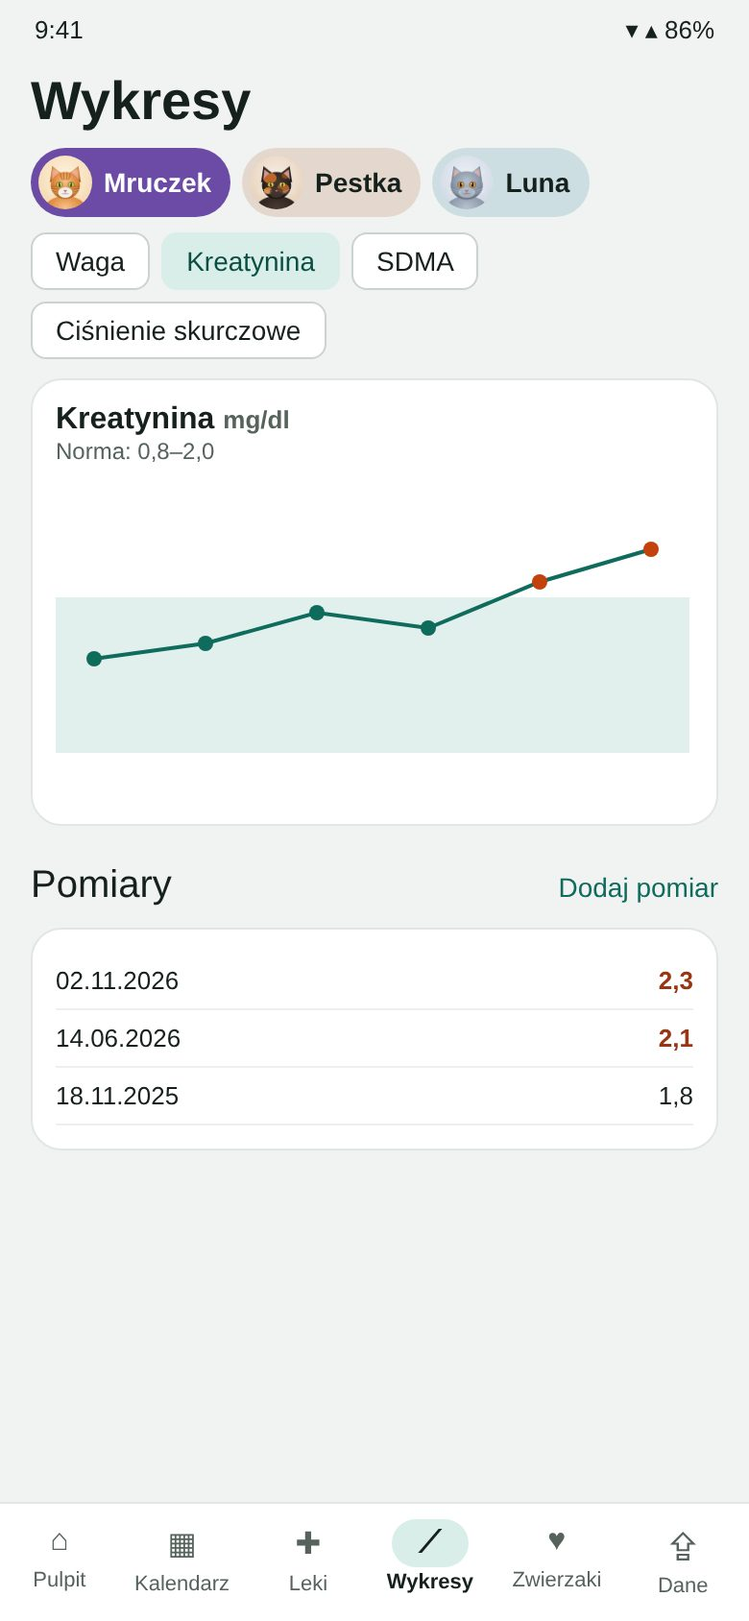
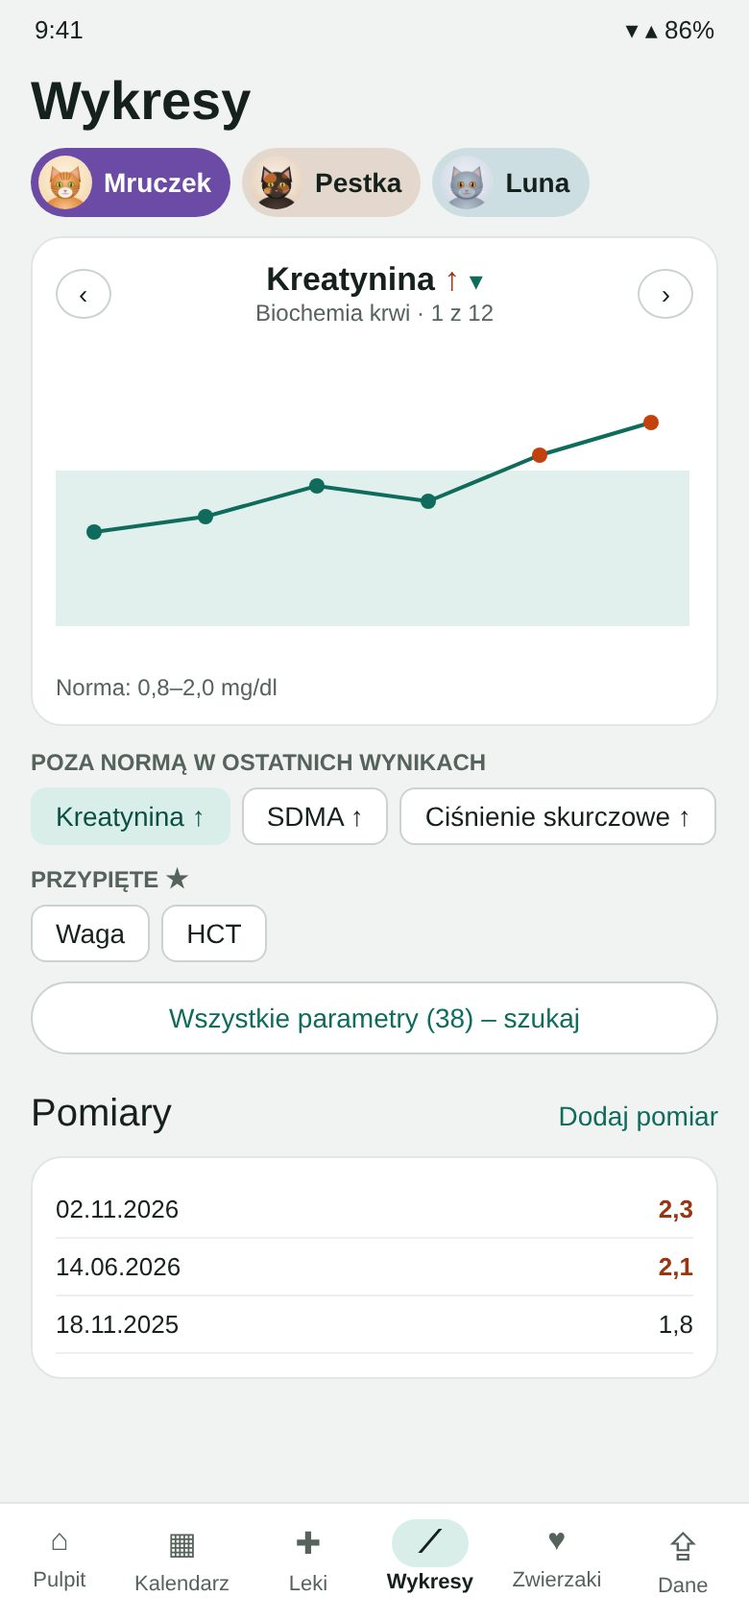
Zmiany 0.19.0, podręcznik: nowy ekran Wykresów
Claude-Session: https://claude.ai/code/session_01Lz8gJxS2uki7r8oLhaRRUg

diff --git a/zmiany/index.html b/zmiany/index.html
@@ -8,5 +8,5 @@ main{max-width:760px;margin:0 auto;padding:clamp(28px,5vw,56px) max(5vw,18px) 64
 h1{font-size:clamp(30px,5vw,40px);line-height:1.1;margin:8px 0 18px}.ver{border-top:1px solid var(--line);padding:14px 0 4px}
 .ver h2{font-size:20px;margin:0 0 4px}.ver h2 span{font-size:15px;font-weight:400;color:var(--mut);margin-left:8px}ul{padding-left:22px;margin:6px 0}li{margin:4px 0}</style></head><body><main>
 <p><a href="../">← KitkuApp</a></p><h1>Historia zmian</h1>
-<section class="ver"><h2>0.18.2 <span>24.11.2026</span></h2><ul><li>Profil: „Archiwum diet” i „Historia fizjoterapii” przeniesione pod karty – przycisk dodawania w nagłówku nie łamie się już na wąskich ekranach.</li></ul></section><section class="ver"><h2>0.18.1 <span>23.11.2026</span></h2><ul><li>Poprawka: po przesunięciu profilu na innego zwierzaka „Terminy badań” pokazywały daty poprzednio oglądanego zwierzaka.</li></ul></section><section class="ver"><h2>0.18.0 <span>23.11.2026</span></h2><ul><li>Wizyta z datą w przyszłości wymaga tylko tytułu. Gdy termin minie, jest wyróżniona w historii i na Pulpicie z prośbą o wyniki – „Uzupełnij” albo „Dodaj skan” (skan z tego dnia uzupełni ten wpis).</li><li>Dieta: w profilu tylko trwające diety, zakończone w „Archiwum diet”. „Zakończ dietę” od razu przenosi ją do archiwum.</li><li>Fizjoterapia przeniesiona z kategorii badań do profilu zwierzaka – sekcja pod dietą, z własną historią.</li><li>Przesunięcie profilu w lewo lub w prawo przechodzi do kolejnego zwierzaka.</li><li>Kategorie badań przy dodawaniu wpisu pogrupowane (krew i mocz, obrazowe, wizyty) i zajmują mniej miejsca.</li></ul></section><section class="ver"><h2>0.17.0 <span>23.11.2026</span></h2><ul><li>Ręczny wpis: osobne pola Opis i Zalecenia (zalecenia tworzą przypomnienia), wyniki wpisywane wierszami – z podpowiedzią parametru, jednostką, normą i strzałką poza normą. Badanie z wynikami wymaga co najmniej jednego wyniku. Wyniki trafiają na wykresy i do stanu zdrowia.</li><li>Nowa kategoria: Fizjoterapia (opis zabiegów i zalecenia).</li><li>Stan zdrowia: dotknięcie pozycji otwiera badanie, przy wartościach poza normą widać normę, a zalecenia typu „kontrola za 12 miesięcy” nie są liczone jako problem.</li><li>Wybór zwierzaka ze zdjęciem i kolorem zwierzaka w tle (kalendarz, leki, wykresy, wpisy).</li><li>Leki: sekcja „Historia diet” nad historią leczenia.</li></ul></section><section class="ver"><h2>0.16.0 <span>23.11.2026</span></h2><ul><li>Profil zwierzaka: sekcja „Dieta” (nazwa, od–do lub na stałe, reakcja na dietę). Po zakończeniu dieta przechodzi do historii.</li><li>Wyszukiwanie w historii zwierzaka – w tytułach i opisach wpisów, na bieżąco podczas pisania.</li><li>Historia podzielona na roczniki – kreska z rokiem na granicy lat.</li><li>Po powrocie z otwartego wpisu profil wraca w to samo miejsce historii.</li></ul></section><section class="ver"><h2>0.15.2 <span>23.11.2026</span></h2><ul><li>Lepszy import historii wizyt: opis badania klinicznego zachowuje podział na punkty, zawinięte zdania są sklejane, a wizyty z samymi załącznikami są pomijane.</li><li>Poprawnie odczytywane wyniki, w których wartość jest sklejona z nazwą parametru (np. SAA), wyniki „w toku” są pomijane, a „Wartość” dostaje nazwę badania.</li><li>Interpretacja wyniku przerwana podziałem strony nie gubi ostatniego zdania.</li></ul></section><section class="ver"><h2>0.15.1 <span>23.11.2026</span></h2><ul><li>Nowa ikona aplikacji.</li><li>Zakładka „Dane i ustawienia” – czytelniej rozdzielone sekcje przywracania kopii i wyglądu.</li></ul></section><section class="ver"><h2>0.15.0 <span>22.11.2026</span></h2><ul><li>Normy badania moczu dla kotów i psów, gdy laboratorium ich nie podało: ciężar właściwy, pH, stosunek białko/kreatynina (z rozróżnieniem wartości granicznej i białkomoczu), erytrocyty i leukocyty w osadzie.</li><li>Wyniki opisowe (glukoza, ketony, krew, bilirubina, bakterie, wałeczki, nabłonki, liczne kryształy) oznaczane jako nieprawidłowe, z normą słowną obok. Białko z paska u kota – tylko informacyjnie.</li><li>Nieprawidłowe wyniki moczu trafiają do podsumowania stanu zdrowia.</li></ul></section><section class="ver"><h2>0.14.0 <span>22.11.2026</span></h2><ul><li>Ciemny motyw: przełącznik w zakładce Dane (sekcja „Wygląd”). Domyślnie aplikacja dopasowuje się do ustawień telefonu.</li></ul></section><section class="ver"><h2>0.13.1 <span>22.11.2026</span></h2><ul><li>Lepszy import zeskanowanych kart wizyt: rozpoznawane sekcje „Opis badania”, „Zabiegi” i „Zastosowane leki” mimo ikon przy nagłówkach, a także data wizyty zaznaczona zakreślaczem.</li><li>Tomografia wpisana w zabiegach oznacza wpis kategorią TK.</li></ul></section><section class="ver"><h2>0.13.0 <span>22.11.2026</span></h2><ul><li>Profil zwierzaka: nowa sekcja „Stan zdrowia” – podsumowanie tworzone automatycznie z ostatnich wyników każdego badania (wartości poza normą, wnioski z badań obrazowych, na końcu badania w normie). Odświeża się samo po dodaniu nowych wyników.</li><li>Pod podsumowaniem pole „Moje notatki” na własne uwagi o zdrowiu.</li></ul></section><section class="ver"><h2>0.12.5 <span>22.11.2026</span></h2><ul><li>Import opisów tomografii komputerowej: rozpoznawane imię zwierzęcia, data i tytuł badania, lekarz opisujący i kierujący, a do wpisu trafia pełny opis i wnioski (bez stopek i stron z obrazami).</li><li>Nowa kategoria badań: Tomografia komputerowa.</li></ul></section><section class="ver"><h2>0.12.4 <span>22.11.2026</span></h2><ul><li>Kalendarz: dotknięcie nazwy miesiąca otwiera wybór miesiąca i roku.</li><li>Kalendarz: usunięta karta „Terminy badań” – terminy są w profilach zwierzaków, a w widoku miesiąca nadal widać je jako kółka.</li><li>Po powrocie z otwartego wpisu kalendarz pokazuje ten sam miesiąc, dzień i filtr.</li></ul></section><section class="ver"><h2>0.12.3 <span>22.11.2026</span></h2><ul><li>Leki podawane co kilka dni: w oknie leku pole „Podawaj co … dni”, na liście informacja o następnej dawce, a zapasy liczą zużycie tylko w dni podania.</li></ul></section><section class="ver"><h2>0.12.2 <span>22.11.2026</span></h2><ul><li>Sekcja Zapasy na karcie Leki pokazuje wszystkie monitorowane leki, niezależnie od wybranego zwierzaka, razem z informacją, kto je dostaje.</li></ul></section><section class="ver"><h2>0.12.1 <span>22.11.2026</span></h2><ul><li>W przypomnieniu jednorazowym termin można ustawić wpisując „Za … miesięcy” – data przelicza się sama.</li></ul></section><section class="ver"><h2>0.12.0 <span>22.11.2026</span></h2><ul><li>Zapasy leków: zaznacz „Monitoruj zużycie”, wpisz posiadaną ilość, a karta Leki pokaże, na ile dni wystarczy zapas. Zużycie liczone jest ze wszystkich zwierzaków, które dostają ten sam lek.</li><li>Przypomnienie na Pulpicie i powiadomienie, gdy zapas leku kończy się w ciągu 7 dni.</li><li>Dawka wpisywana jako liczba z jednostką (szt, ml, g).</li><li>Nowy lek można dodać od razu kilku zwierzakom i o kilku godzinach.</li><li>Podpowiedzi nazw leków już używanych (także przy literówce) – z dawką i jednostką.</li></ul></section><section class="ver"><h2>0.11.6 <span>20.11.2026</span></h2><ul><li>Opisy badań USG importowane w całości, w akapitach, z kategorią „USG jamy brzusznej”.</li><li>Poprawione rozpoznawanie imion i słów w wypisach, w których PDF rozdzielał wyrazy (np. „Zw ierzę”).</li></ul></section><section class="ver"><h2>0.11.5 <span>20.11.2026</span></h2><ul><li>Uwaga o konsultacji częstotliwości badań z weterynarzem przeniesiona nad przypomnienia jednorazowe.</li><li>W zakładce Dane przy numerze wersji link do listy zmian.</li></ul></section><section class="ver"><h2>0.11.4 <span>20.11.2026</span></h2><ul><li>Przypomnienie o USG jamy brzusznej domyślnie co 12 miesięcy (wcześniej 6).</li><li>W ustawieniach przypomnień uwaga, że częstotliwość badań warto ustalić z lekarzem weterynarii.</li></ul></section><section class="ver"><h2>0.11.3 <span>20.11.2026</span></h2><ul><li>Przypomnienie o echu serca domyślnie co 12 miesięcy (wcześniej 24), zgodnie z zaleceniem corocznej kontroli kotów z ras predysponowanych i z łagodną kardiomiopatią.</li></ul></section><section class="ver"><h2>0.11.2 <span>19.11.2026</span></h2><ul><li>Przy dodawaniu wpisu i imporcie nie trzeba już wybierać rodzaju (wizyta, badanie, telefon, pomiar domowy) — aplikacja ustawia go sama.</li></ul></section><section class="ver"><h2>0.11.1 <span>19.11.2026</span></h2><ul><li>Profil zwierzaka: dotknięcie badania w „Terminach badań” pokazuje historię tylko z tym badaniem.</li></ul></section><section class="ver"><h2>0.11.0 <span>19.11.2026</span></h2><ul><li>Import wypisów z gabinetu kardiologicznego: cały wynik echa serca zapisany w opisie wizyty, wywiad, waga, ciśnienie i zalecenia (np. kontrolne echo po 3–4 miesiącach).</li><li>Imię z wypisu dopasowywane mimo drobnej różnicy w pisowni (np. Papaya ↔ Papaja).</li></ul></section><section class="ver"><h2>0.10.6 <span>19.11.2026</span></h2><ul><li>Numer wersji rośnie automatycznie z każdym wydaniem (porządek przy publikacji w Google Play).</li></ul></section><section class="ver"><h2>0.10.5 <span>19.11.2026</span></h2><ul><li>Polityka prywatności na stronie aplikacji (GitHub Pages), link w zakładce Dane.</li></ul></section><section class="ver"><h2>0.10.4 <span>18.11.2026</span></h2><ul><li>Import kilku dużych kartotek naraz bez zawieszania aplikacji: zapis w tle, pliki czytane po kolei, lista wizyt pokazywana porcjami, przycisk usuwania duplikatów z listy.</li></ul></section><section class="ver"><h2>0.10.3 <span>17.11.2026</span></h2><ul><li>Edycja i usuwanie przypomnień: zmiana nazwy i okresu, usuwanie własnych i domyślnych (z możliwością przywrócenia), edycja przypomnień jednorazowych.</li></ul></section><section class="ver"><h2>0.10.2 <span>17.11.2026</span></h2><ul><li>Zwierzaki na Pulpicie i w zakładce Zwierzaki ułożone od tych, które najbardziej potrzebują badań.</li><li>Terminy badań w profilu od zaległych do najodleglejszych.</li><li>Leki pogrupowane według godziny podawania.</li></ul></section><section class="ver"><h2>0.10.1 <span>17.11.2026</span></h2><ul><li>Nowe przypomnienie: pomiar ciśnienia co 6 miesięcy.</li></ul></section><section class="ver"><h2>0.10.0 <span>17.11.2026</span></h2><ul><li>Przygotowanie do Google Play: nowy identyfikator aplikacji, Android 16, polityka prywatności.</li></ul></section><section class="ver"><h2>0.9.2 <span>17.11.2026</span></h2><ul><li>Przypomnienia jednorazowe nie mnożą się po imporcie starszych kartotek; zamknięte można ukryć lub usunąć.</li></ul></section><section class="ver"><h2>0.9.1 <span>17.11.2026</span></h2><ul><li>Ręczna poprawa zaimportowanych wyników: nazwa, wartość, jednostka, norma, dodawanie i usuwanie pozycji.</li><li>Poprawny tytuł badania, gdy tabela zaczyna się na następnej stronie wypisu.</li></ul></section><section class="ver"><h2>0.9.0 <span>17.11.2026</span></h2><ul><li>Psy obok kotów, z typowymi wartościami tętna, oddechów i ciśnienia dla psa.</li><li>Przypomnienia jednorazowe z zaleceń w wypisie (np. „powtórzyć USG za miesiąc”) i po wynikach poza normą.</li></ul></section><section class="ver"><h2>0.8.0 <span>17.11.2026</span></h2><ul><li>Zdjęcia zwierząt z przesuwaniem i kadrowaniem.</li><li>Ciśnienie skurczowe, rozkurczowe i tętno w pomiarach domowych i z wypisów.</li></ul></section><section class="ver"><h2>0.7 <span>17.11.2026</span></h2><ul><li>Nowa zakładka Leki: godzina podawania, dawka, uwagi, daty oraz historia leczenia.</li><li>Czytelniejszy dolny pasek nawigacji.</li></ul></section><section class="ver"><h2>0.6 <span>17.11.2026</span></h2><ul><li>Nowa nazwa: KitkuApp, przycisk „Postaw kotkom karmę”.</li><li>Przypomnienie o echu serca (co 24 miesiące) i własne przypomnienia.</li></ul></section><section class="ver"><h2>0.5 <span>17.11.2026</span></h2><ul><li>Odczyt skanów PDF i zdjęć wypisów (rozpoznawanie tekstu w telefonie).</li><li>Pomiary domowe: oddechy w spoczynku, biegunka, wymioty; zwijane kategorie wykresów.</li><li>Zakładka Dane z importem i kopią zapasową, dzwonek do ustawień przypomnień, do 6 zwierzaków widocznych bez przewijania.</li></ul></section><section class="ver"><h2>0.4 <span>16.11.2026</span></h2><ul><li>Import zbiorczych wypisów z wieloma wizytami w jednym pliku.</li><li>Jednostki wyników przeliczane na wspólne, dokładniejszy odczyt tabel z wynikami.</li></ul></section><section class="ver"><h2>0.3 <span>16.11.2026</span></h2><ul><li>Pierwsza wersja: kalendarz badań z przypomnieniami, profile kotów z wiekiem, import wypisów PDF, wykresy wyników, kopia zapasowa na Dysku Google.</li></ul></section>
+<section class="ver"><h2>0.19.0 <span>24.11.2026</span></h2><ul><li>Wykresy: wykres od razu pod wyborem zwierzaka. Dotknięcie nazwy parametru otwiera wybór, strzałki ‹ › przechodzą do sąsiednich parametrów z tej samej grupy.</li><li>Pod wykresem skróty: parametry poza normą w ostatnich wynikach i przypięte gwiazdką.</li><li>„Wszystkie parametry” – lista z wyszukiwarką (także po innych nazwach, np. „hematokryt”), pogrupowana jak badania, z ostatnią wartością.</li><li>Ten sam parametr z różnych laboratoriów (np. HCT i Hematokryt, PLT i Płytki krwi) oraz nazwy rozbite przy odczycie PDF trafiają na jeden wykres.</li></ul></section><section class="ver"><h2>0.18.2 <span>24.11.2026</span></h2><ul><li>Profil: „Archiwum diet” i „Historia fizjoterapii” przeniesione pod karty – przycisk dodawania w nagłówku nie łamie się już na wąskich ekranach.</li></ul></section><section class="ver"><h2>0.18.1 <span>23.11.2026</span></h2><ul><li>Poprawka: po przesunięciu profilu na innego zwierzaka „Terminy badań” pokazywały daty poprzednio oglądanego zwierzaka.</li></ul></section><section class="ver"><h2>0.18.0 <span>23.11.2026</span></h2><ul><li>Wizyta z datą w przyszłości wymaga tylko tytułu. Gdy termin minie, jest wyróżniona w historii i na Pulpicie z prośbą o wyniki – „Uzupełnij” albo „Dodaj skan” (skan z tego dnia uzupełni ten wpis).</li><li>Dieta: w profilu tylko trwające diety, zakończone w „Archiwum diet”. „Zakończ dietę” od razu przenosi ją do archiwum.</li><li>Fizjoterapia przeniesiona z kategorii badań do profilu zwierzaka – sekcja pod dietą, z własną historią.</li><li>Przesunięcie profilu w lewo lub w prawo przechodzi do kolejnego zwierzaka.</li><li>Kategorie badań przy dodawaniu wpisu pogrupowane (krew i mocz, obrazowe, wizyty) i zajmują mniej miejsca.</li></ul></section><section class="ver"><h2>0.17.0 <span>23.11.2026</span></h2><ul><li>Ręczny wpis: osobne pola Opis i Zalecenia (zalecenia tworzą przypomnienia), wyniki wpisywane wierszami – z podpowiedzią parametru, jednostką, normą i strzałką poza normą. Badanie z wynikami wymaga co najmniej jednego wyniku. Wyniki trafiają na wykresy i do stanu zdrowia.</li><li>Nowa kategoria: Fizjoterapia (opis zabiegów i zalecenia).</li><li>Stan zdrowia: dotknięcie pozycji otwiera badanie, przy wartościach poza normą widać normę, a zalecenia typu „kontrola za 12 miesięcy” nie są liczone jako problem.</li><li>Wybór zwierzaka ze zdjęciem i kolorem zwierzaka w tle (kalendarz, leki, wykresy, wpisy).</li><li>Leki: sekcja „Historia diet” nad historią leczenia.</li></ul></section><section class="ver"><h2>0.16.0 <span>23.11.2026</span></h2><ul><li>Profil zwierzaka: sekcja „Dieta” (nazwa, od–do lub na stałe, reakcja na dietę). Po zakończeniu dieta przechodzi do historii.</li><li>Wyszukiwanie w historii zwierzaka – w tytułach i opisach wpisów, na bieżąco podczas pisania.</li><li>Historia podzielona na roczniki – kreska z rokiem na granicy lat.</li><li>Po powrocie z otwartego wpisu profil wraca w to samo miejsce historii.</li></ul></section><section class="ver"><h2>0.15.2 <span>23.11.2026</span></h2><ul><li>Lepszy import historii wizyt: opis badania klinicznego zachowuje podział na punkty, zawinięte zdania są sklejane, a wizyty z samymi załącznikami są pomijane.</li><li>Poprawnie odczytywane wyniki, w których wartość jest sklejona z nazwą parametru (np. SAA), wyniki „w toku” są pomijane, a „Wartość” dostaje nazwę badania.</li><li>Interpretacja wyniku przerwana podziałem strony nie gubi ostatniego zdania.</li></ul></section><section class="ver"><h2>0.15.1 <span>23.11.2026</span></h2><ul><li>Nowa ikona aplikacji.</li><li>Zakładka „Dane i ustawienia” – czytelniej rozdzielone sekcje przywracania kopii i wyglądu.</li></ul></section><section class="ver"><h2>0.15.0 <span>22.11.2026</span></h2><ul><li>Normy badania moczu dla kotów i psów, gdy laboratorium ich nie podało: ciężar właściwy, pH, stosunek białko/kreatynina (z rozróżnieniem wartości granicznej i białkomoczu), erytrocyty i leukocyty w osadzie.</li><li>Wyniki opisowe (glukoza, ketony, krew, bilirubina, bakterie, wałeczki, nabłonki, liczne kryształy) oznaczane jako nieprawidłowe, z normą słowną obok. Białko z paska u kota – tylko informacyjnie.</li><li>Nieprawidłowe wyniki moczu trafiają do podsumowania stanu zdrowia.</li></ul></section><section class="ver"><h2>0.14.0 <span>22.11.2026</span></h2><ul><li>Ciemny motyw: przełącznik w zakładce Dane (sekcja „Wygląd”). Domyślnie aplikacja dopasowuje się do ustawień telefonu.</li></ul></section><section class="ver"><h2>0.13.1 <span>22.11.2026</span></h2><ul><li>Lepszy import zeskanowanych kart wizyt: rozpoznawane sekcje „Opis badania”, „Zabiegi” i „Zastosowane leki” mimo ikon przy nagłówkach, a także data wizyty zaznaczona zakreślaczem.</li><li>Tomografia wpisana w zabiegach oznacza wpis kategorią TK.</li></ul></section><section class="ver"><h2>0.13.0 <span>22.11.2026</span></h2><ul><li>Profil zwierzaka: nowa sekcja „Stan zdrowia” – podsumowanie tworzone automatycznie z ostatnich wyników każdego badania (wartości poza normą, wnioski z badań obrazowych, na końcu badania w normie). Odświeża się samo po dodaniu nowych wyników.</li><li>Pod podsumowaniem pole „Moje notatki” na własne uwagi o zdrowiu.</li></ul></section><section class="ver"><h2>0.12.5 <span>22.11.2026</span></h2><ul><li>Import opisów tomografii komputerowej: rozpoznawane imię zwierzęcia, data i tytuł badania, lekarz opisujący i kierujący, a do wpisu trafia pełny opis i wnioski (bez stopek i stron z obrazami).</li><li>Nowa kategoria badań: Tomografia komputerowa.</li></ul></section><section class="ver"><h2>0.12.4 <span>22.11.2026</span></h2><ul><li>Kalendarz: dotknięcie nazwy miesiąca otwiera wybór miesiąca i roku.</li><li>Kalendarz: usunięta karta „Terminy badań” – terminy są w profilach zwierzaków, a w widoku miesiąca nadal widać je jako kółka.</li><li>Po powrocie z otwartego wpisu kalendarz pokazuje ten sam miesiąc, dzień i filtr.</li></ul></section><section class="ver"><h2>0.12.3 <span>22.11.2026</span></h2><ul><li>Leki podawane co kilka dni: w oknie leku pole „Podawaj co … dni”, na liście informacja o następnej dawce, a zapasy liczą zużycie tylko w dni podania.</li></ul></section><section class="ver"><h2>0.12.2 <span>22.11.2026</span></h2><ul><li>Sekcja Zapasy na karcie Leki pokazuje wszystkie monitorowane leki, niezależnie od wybranego zwierzaka, razem z informacją, kto je dostaje.</li></ul></section><section class="ver"><h2>0.12.1 <span>22.11.2026</span></h2><ul><li>W przypomnieniu jednorazowym termin można ustawić wpisując „Za … miesięcy” – data przelicza się sama.</li></ul></section><section class="ver"><h2>0.12.0 <span>22.11.2026</span></h2><ul><li>Zapasy leków: zaznacz „Monitoruj zużycie”, wpisz posiadaną ilość, a karta Leki pokaże, na ile dni wystarczy zapas. Zużycie liczone jest ze wszystkich zwierzaków, które dostają ten sam lek.</li><li>Przypomnienie na Pulpicie i powiadomienie, gdy zapas leku kończy się w ciągu 7 dni.</li><li>Dawka wpisywana jako liczba z jednostką (szt, ml, g).</li><li>Nowy lek można dodać od razu kilku zwierzakom i o kilku godzinach.</li><li>Podpowiedzi nazw leków już używanych (także przy literówce) – z dawką i jednostką.</li></ul></section><section class="ver"><h2>0.11.6 <span>20.11.2026</span></h2><ul><li>Opisy badań USG importowane w całości, w akapitach, z kategorią „USG jamy brzusznej”.</li><li>Poprawione rozpoznawanie imion i słów w wypisach, w których PDF rozdzielał wyrazy (np. „Zw ierzę”).</li></ul></section><section class="ver"><h2>0.11.5 <span>20.11.2026</span></h2><ul><li>Uwaga o konsultacji częstotliwości badań z weterynarzem przeniesiona nad przypomnienia jednorazowe.</li><li>W zakładce Dane przy numerze wersji link do listy zmian.</li></ul></section><section class="ver"><h2>0.11.4 <span>20.11.2026</span></h2><ul><li>Przypomnienie o USG jamy brzusznej domyślnie co 12 miesięcy (wcześniej 6).</li><li>W ustawieniach przypomnień uwaga, że częstotliwość badań warto ustalić z lekarzem weterynarii.</li></ul></section><section class="ver"><h2>0.11.3 <span>20.11.2026</span></h2><ul><li>Przypomnienie o echu serca domyślnie co 12 miesięcy (wcześniej 24), zgodnie z zaleceniem corocznej kontroli kotów z ras predysponowanych i z łagodną kardiomiopatią.</li></ul></section><section class="ver"><h2>0.11.2 <span>19.11.2026</span></h2><ul><li>Przy dodawaniu wpisu i imporcie nie trzeba już wybierać rodzaju (wizyta, badanie, telefon, pomiar domowy) — aplikacja ustawia go sama.</li></ul></section><section class="ver"><h2>0.11.1 <span>19.11.2026</span></h2><ul><li>Profil zwierzaka: dotknięcie badania w „Terminach badań” pokazuje historię tylko z tym badaniem.</li></ul></section><section class="ver"><h2>0.11.0 <span>19.11.2026</span></h2><ul><li>Import wypisów z gabinetu kardiologicznego: cały wynik echa serca zapisany w opisie wizyty, wywiad, waga, ciśnienie i zalecenia (np. kontrolne echo po 3–4 miesiącach).</li><li>Imię z wypisu dopasowywane mimo drobnej różnicy w pisowni (np. Papaya ↔ Papaja).</li></ul></section><section class="ver"><h2>0.10.6 <span>19.11.2026</span></h2><ul><li>Numer wersji rośnie automatycznie z każdym wydaniem (porządek przy publikacji w Google Play).</li></ul></section><section class="ver"><h2>0.10.5 <span>19.11.2026</span></h2><ul><li>Polityka prywatności na stronie aplikacji (GitHub Pages), link w zakładce Dane.</li></ul></section><section class="ver"><h2>0.10.4 <span>18.11.2026</span></h2><ul><li>Import kilku dużych kartotek naraz bez zawieszania aplikacji: zapis w tle, pliki czytane po kolei, lista wizyt pokazywana porcjami, przycisk usuwania duplikatów z listy.</li></ul></section><section class="ver"><h2>0.10.3 <span>17.11.2026</span></h2><ul><li>Edycja i usuwanie przypomnień: zmiana nazwy i okresu, usuwanie własnych i domyślnych (z możliwością przywrócenia), edycja przypomnień jednorazowych.</li></ul></section><section class="ver"><h2>0.10.2 <span>17.11.2026</span></h2><ul><li>Zwierzaki na Pulpicie i w zakładce Zwierzaki ułożone od tych, które najbardziej potrzebują badań.</li><li>Terminy badań w profilu od zaległych do najodleglejszych.</li><li>Leki pogrupowane według godziny podawania.</li></ul></section><section class="ver"><h2>0.10.1 <span>17.11.2026</span></h2><ul><li>Nowe przypomnienie: pomiar ciśnienia co 6 miesięcy.</li></ul></section><section class="ver"><h2>0.10.0 <span>17.11.2026</span></h2><ul><li>Przygotowanie do Google Play: nowy identyfikator aplikacji, Android 16, polityka prywatności.</li></ul></section><section class="ver"><h2>0.9.2 <span>17.11.2026</span></h2><ul><li>Przypomnienia jednorazowe nie mnożą się po imporcie starszych kartotek; zamknięte można ukryć lub usunąć.</li></ul></section><section class="ver"><h2>0.9.1 <span>17.11.2026</span></h2><ul><li>Ręczna poprawa zaimportowanych wyników: nazwa, wartość, jednostka, norma, dodawanie i usuwanie pozycji.</li><li>Poprawny tytuł badania, gdy tabela zaczyna się na następnej stronie wypisu.</li></ul></section><section class="ver"><h2>0.9.0 <span>17.11.2026</span></h2><ul><li>Psy obok kotów, z typowymi wartościami tętna, oddechów i ciśnienia dla psa.</li><li>Przypomnienia jednorazowe z zaleceń w wypisie (np. „powtórzyć USG za miesiąc”) i po wynikach poza normą.</li></ul></section><section class="ver"><h2>0.8.0 <span>17.11.2026</span></h2><ul><li>Zdjęcia zwierząt z przesuwaniem i kadrowaniem.</li><li>Ciśnienie skurczowe, rozkurczowe i tętno w pomiarach domowych i z wypisów.</li></ul></section><section class="ver"><h2>0.7 <span>17.11.2026</span></h2><ul><li>Nowa zakładka Leki: godzina podawania, dawka, uwagi, daty oraz historia leczenia.</li><li>Czytelniejszy dolny pasek nawigacji.</li></ul></section><section class="ver"><h2>0.6 <span>17.11.2026</span></h2><ul><li>Nowa nazwa: KitkuApp, przycisk „Postaw kotkom karmę”.</li><li>Przypomnienie o echu serca (co 24 miesiące) i własne przypomnienia.</li></ul></section><section class="ver"><h2>0.5 <span>17.11.2026</span></h2><ul><li>Odczyt skanów PDF i zdjęć wypisów (rozpoznawanie tekstu w telefonie).</li><li>Pomiary domowe: oddechy w spoczynku, biegunka, wymioty; zwijane kategorie wykresów.</li><li>Zakładka Dane z importem i kopią zapasową, dzwonek do ustawień przypomnień, do 6 zwierzaków widocznych bez przewijania.</li></ul></section><section class="ver"><h2>0.4 <span>16.11.2026</span></h2><ul><li>Import zbiorczych wypisów z wieloma wizytami w jednym pliku.</li><li>Jednostki wyników przeliczane na wspólne, dokładniejszy odczyt tabel z wynikami.</li></ul></section><section class="ver"><h2>0.3 <span>16.11.2026</span></h2><ul><li>Pierwsza wersja: kalendarz badań z przypomnieniami, profile kotów z wiekiem, import wypisów PDF, wykresy wyników, kopia zapasowa na Dysku Google.</li></ul></section>
 </main></body></html>

diff --git a/podrecznik/index.html b/podrecznik/index.html
@@ -56,9 +56,9 @@ footer{border-top:1px solid var(--line);margin-top:30px;padding-top:14px}
 <div class="shot"><img src="img/leki.jpg" alt="Ekran Leki z przykładowymi danymi" width="780" height="1940" loading="lazy"><span class="tap" data-n="1" style="left:5.13%;top:8.35%;--d:0.0s" aria-hidden="true">1</span><span class="tap" data-n="2" style="left:83.74%;top:20.62%;--d:1.6s" aria-hidden="true">2</span><span class="tap" data-n="3" style="left:91.28%;top:20.57%;--d:3.2s" aria-hidden="true">3</span><span class="tap" data-n="4" style="left:5.13%;top:54.12%;--d:4.8s" aria-hidden="true">4</span><span class="tap" data-n="5" style="left:65.92%;top:86.8%;--d:6.4s" aria-hidden="true">5</span><span class="tap" data-n="6" style="left:5.13%;top:70.41%;--d:8.0s" aria-hidden="true">6</span></div>
 <div><h2>Leki</h2><p>Leki podawane każdemu zwierzakowi, pogrupowane według godzin, i zapasy.</p><button class="play" type="button">▶ Pokaż kliknięcia po kolei</button><ol class="steps"><li data-n="1"><span class="n">1</span><span>Wybór zwierzaka – zdjęcie, a w tle kolor zwierzaka (ten sam co na wykresach).</span></li><li data-n="2"><span class="n">2</span><span>Ołówek: <b>edycja leku</b> (godzina, dawka, co ile dni, okres, zapas).</span></li><li data-n="3"><span class="n">3</span><span><b>Zakończ podawanie</b> – lek przechodzi do historii leczenia.</span></li><li data-n="4"><span class="n">4</span><span><b>Zapasy</b>: ile zostało i na ile dni wystarczy, liczone ze wszystkich zwierzaków dostających ten lek. Dotknij, aby wpisać nową ilość po zakupie. Przy 7 dniach i mniej pojawi się alert na Pulpicie.</span></li><li data-n="5"><span class="n">5</span><span><b>+ Dodaj lek</b> otwiera okno nowego leku (następny obrazek).</span></li><li data-n="6"><span class="n">6</span><span><b>Historia diet</b> – zakończone diety zwierzaka z reakcją na dietę (widoczne też w historii profilu).</span></li></ol></div></section><section class="scr" id="lek-okno" style="--cycle:8.0s">
 <div class="shot"><img src="img/lek-okno.jpg" alt="Ekran Nowy lek z przykładowymi danymi" width="780" height="1688" loading="lazy"><span class="tap" data-n="1" style="left:10.77%;top:17.18%;--d:0.0s" aria-hidden="true">1</span><span class="tap" data-n="2" style="left:10.77%;top:28.44%;--d:1.6s" aria-hidden="true">2</span><span class="tap" data-n="3" style="left:10.77%;top:33.29%;--d:3.2s" aria-hidden="true">3</span><span class="tap" data-n="4" style="left:10.77%;top:56.04%;--d:4.8s" aria-hidden="true">4</span><span class="tap" data-n="5" style="left:10.77%;top:61.37%;--d:6.4s" aria-hidden="true">5</span></div>
-<div><h2>Nowy lek</h2><p>Jeden lek można dodać od razu kilku zwierzakom i o kilku godzinach.</p><button class="play" type="button">▶ Pokaż kliknięcia po kolei</button><ol class="steps"><li data-n="1"><span class="n">1</span><span>Zaznacz <b>kilka zwierzaków</b> naraz (albo „Wszystkie”).</span></li><li data-n="2"><span class="n">2</span><span>Zaznacz <b>godziny</b> – spośród już używanych albo dodaj inną. Powstanie wpis dla każdej pary zwierzak × godzina.</span></li><li data-n="3"><span class="n">3</span><span>Przy wpisywaniu nazwy pojawiają się <b>podpowiedzi</b> leków już używanych (także przy literówce). Wybranie podpowiedzi wpisuje dawkę, jednostkę i aktualny zapas.</span></li><li data-n="4"><span class="n">4</span><span><b>Podawaj co X dni</b> – np. odrobaczanie co 90 dni.</span></li><li data-n="5"><span class="n">5</span><span><b>Monitoruj zużycie</b> – wpisz posiadaną ilość, a aplikacja policzy, na ile dni wystarczy.</span></li></ol></div></section><section class="scr" id="wykresy" style="--cycle:6.4s">
-<div class="shot"><img src="img/wykresy.jpg" alt="Ekran Wykresy z przykładowymi danymi" width="780" height="1688" loading="lazy"><span class="tap" data-n="1" style="left:5.13%;top:9.6%;--d:0.0s" aria-hidden="true">1</span><span class="tap" data-n="2" style="left:5.13%;top:14.81%;--d:1.6s" aria-hidden="true">2</span><span class="tap" data-n="3" style="left:8.46%;top:29.15%;--d:3.2s" aria-hidden="true">3</span><span class="tap" data-n="4" style="left:75.57%;top:54.21%;--d:4.8s" aria-hidden="true">4</span></div>
-<div><h2>Wykresy</h2><p>Zmiany wyników w czasie – z zaznaczoną normą.</p><button class="play" type="button">▶ Pokaż kliknięcia po kolei</button><ol class="steps"><li data-n="1"><span class="n">1</span><span>Wybór zwierzaka.</span></li><li data-n="2"><span class="n">2</span><span>Wybór parametru – waga, ciśnienie i każdy wynik liczbowy z historii.</span></li><li data-n="3"><span class="n">3</span><span>Zielony pas to norma, czerwone punkty – wyniki poza normą.</span></li><li data-n="4"><span class="n">4</span><span><b>Dodaj pomiar</b> – np. waga z domowej wagi albo ciśnienie zmierzone w domu.</span></li></ol></div></section><section class="scr" id="przypomnienia" style="--cycle:8.0s">
+<div><h2>Nowy lek</h2><p>Jeden lek można dodać od razu kilku zwierzakom i o kilku godzinach.</p><button class="play" type="button">▶ Pokaż kliknięcia po kolei</button><ol class="steps"><li data-n="1"><span class="n">1</span><span>Zaznacz <b>kilka zwierzaków</b> naraz (albo „Wszystkie”).</span></li><li data-n="2"><span class="n">2</span><span>Zaznacz <b>godziny</b> – spośród już używanych albo dodaj inną. Powstanie wpis dla każdej pary zwierzak × godzina.</span></li><li data-n="3"><span class="n">3</span><span>Przy wpisywaniu nazwy pojawiają się <b>podpowiedzi</b> leków już używanych (także przy literówce). Wybranie podpowiedzi wpisuje dawkę, jednostkę i aktualny zapas.</span></li><li data-n="4"><span class="n">4</span><span><b>Podawaj co X dni</b> – np. odrobaczanie co 90 dni.</span></li><li data-n="5"><span class="n">5</span><span><b>Monitoruj zużycie</b> – wpisz posiadaną ilość, a aplikacja policzy, na ile dni wystarczy.</span></li></ol></div></section><section class="scr" id="wykresy" style="--cycle:11.2s">
+<div class="shot"><img src="img/wykresy.jpg" alt="Ekran Wykresy z przykładowymi danymi" width="780" height="1688" loading="lazy"><span class="tap" data-n="1" style="left:5.13%;top:9.6%;--d:0.0s" aria-hidden="true">1</span><span class="tap" data-n="2" style="left:17.86%;top:16.59%;--d:1.6s" aria-hidden="true">2</span><span class="tap" data-n="3" style="left:8.46%;top:17.06%;--d:3.2s" aria-hidden="true">3</span><span class="tap" data-n="4" style="left:8.46%;top:21.33%;--d:4.8s" aria-hidden="true">4</span><span class="tap" data-n="5" style="left:5.13%;top:49.05%;--d:6.4s" aria-hidden="true">5</span><span class="tap" data-n="6" style="left:5.13%;top:61.02%;--d:8.0s" aria-hidden="true">6</span><span class="tap" data-n="7" style="left:75.57%;top:68.31%;--d:9.6s" aria-hidden="true">7</span></div>
+<div><h2>Wykresy</h2><p>Zmiany wyników w czasie – z zaznaczoną normą.</p><button class="play" type="button">▶ Pokaż kliknięcia po kolei</button><ol class="steps"><li data-n="1"><span class="n">1</span><span>Wybór zwierzaka.</span></li><li data-n="2"><span class="n">2</span><span>Nazwa parametru – dotknij, aby wybrać inny. Strzałka ↑/↓ oznacza ostatni wynik poza normą.</span></li><li data-n="3"><span class="n">3</span><span>Strzałki ‹ › przechodzą do poprzedniego / następnego parametru z tej samej grupy (np. kolejne wyniki biochemii).</span></li><li data-n="4"><span class="n">4</span><span>Zielony pas to norma, czerwone punkty – wyniki poza normą.</span></li><li data-n="5"><span class="n">5</span><span>Skróty: parametry poza normą w ostatnich wynikach oraz przypięte gwiazdką.</span></li><li data-n="6"><span class="n">6</span><span><b>Wszystkie parametry</b> – lista z wyszukiwarką (działa też na inne nazwy, np. „hematokryt” → HCT), pogrupowana jak badania, z ostatnią wartością. Gwiazdka ☆ przypina parametr. Ten sam parametr z różnych laboratoriów jest na jednym wykresie.</span></li><li data-n="7"><span class="n">7</span><span><b>Dodaj pomiar</b> – np. waga z domowej wagi albo ciśnienie zmierzone w domu.</span></li></ol></div></section><section class="scr" id="przypomnienia" style="--cycle:8.0s">
 <div class="shot"><img src="img/przypomnienia.jpg" alt="Ekran Przypomnienia z przykładowymi danymi" width="780" height="1688" loading="lazy"><span class="tap" data-n="1" style="left:8.46%;top:10.43%;--d:0.0s" aria-hidden="true">1</span><span class="tap" data-n="2" style="left:5.13%;top:36.97%;--d:1.6s" aria-hidden="true">2</span><span class="tap" data-n="3" style="left:90.0%;top:55.33%;--d:3.2s" aria-hidden="true">3</span><span class="tap" data-n="4" style="left:5.13%;top:61.73%;--d:4.8s" aria-hidden="true">4</span><span class="tap" data-n="5" style="left:8.46%;top:71.45%;--d:6.4s" aria-hidden="true">5</span></div>
 <div><h2>Przypomnienia</h2><p>Co ile miesięcy które badanie i kiedy dostawać powiadomienia. Otwierane dzwonkiem na Pulpicie.</p><button class="play" type="button">▶ Pokaż kliknięcia po kolei</button><ol class="steps"><li data-n="1"><span class="n">1</span><span>Dotknij badania, aby zmienić <b>częstotliwość</b>, nazwę, śledzenie albo je usunąć.</span></li><li data-n="2"><span class="n">2</span><span>Własne przypomnienia – np. odrobaczanie co 3 miesiące.</span></li><li data-n="3"><span class="n">3</span><span>Przypomnienie jednorazowe: zmień termin, edytuj, przenieś na innego zwierzaka albo usuń.</span></li><li data-n="4"><span class="n">4</span><span>Nowe przypomnienie jednorazowe – termin datą albo „Za N miesięcy”.</span></li><li data-n="5"><span class="n">5</span><span>Z jakim wyprzedzeniem badanie ma się pojawiać jako „wkrótce” i w powiadomieniach.</span></li></ol></div></section><section class="scr" id="dane" style="--cycle:8.0s">
 <div class="shot"><img src="img/dane.jpg" alt="Ekran Kopia, wygląd i informacje z przykładowymi danymi" width="780" height="1688" loading="lazy"><span class="tap" data-n="1" style="left:8.46%;top:18.36%;--d:0.0s" aria-hidden="true">1</span><span class="tap" data-n="2" style="left:8.46%;top:23.82%;--d:1.6s" aria-hidden="true">2</span><span class="tap" data-n="3" style="left:8.46%;top:39.22%;--d:3.2s" aria-hidden="true">3</span><span class="tap" data-n="4" style="left:82.31%;top:56.4%;--d:4.8s" aria-hidden="true">4</span><span class="tap" data-n="5" style="left:34.96%;top:69.19%;--d:6.4s" aria-hidden="true">5</span></div>

diff --git a/index.html b/index.html
@@ -47,7 +47,7 @@ a{color:var(--acc)}.mut{color:var(--mut);font-size:15px}
 <div class="shots"><a href="img/01_pulpit-duzy.jpg"><img src="img/01_pulpit.jpg" alt="Pulpit" loading="lazy" width="540" height="960"></a><a href="img/02_zwierzaki-duzy.jpg"><img src="img/02_zwierzaki.jpg" alt="Lista zwierzaków" loading="lazy" width="540" height="960"></a><a href="img/03_profil-duzy.jpg"><img src="img/03_profil.jpg" alt="Profil – stan zdrowia i terminy" loading="lazy" width="540" height="960"></a><a href="img/04_opieka-duzy.jpg"><img src="img/04_opieka.jpg" alt="Profil – dieta, fizjoterapia i notatki" loading="lazy" width="540" height="960"></a><a href="img/05_wykresy-duzy.jpg"><img src="img/05_wykresy.jpg" alt="Wykresy wyników" loading="lazy" width="540" height="960"></a><a href="img/06_leki-duzy.jpg"><img src="img/06_leki.jpg" alt="Leki i zapasy" loading="lazy" width="540" height="960"></a><a href="img/07_kalendarz-duzy.jpg"><img src="img/07_kalendarz.jpg" alt="Kalendarz" loading="lazy" width="540" height="960"></a><a href="img/08_import-duzy.jpg"><img src="img/08_import.jpg" alt="Import wyników" loading="lazy" width="540" height="960"></a><a href="img/09_dane-duzy.jpg"><img src="img/09_dane.jpg" alt="Kopia zapasowa i wygląd" loading="lazy" width="540" height="960"></a></div>
 <p class="get"><a class="dl guide" href="podrecznik/">Podręcznik użytkownika</a><span>co można zrobić na każdym ekranie aplikacji</span></p>
 <h2>Co nowego</h2>
-<!--NOWE--><section class="ver"><h2>0.18.2 <span>24.11.2026</span></h2><ul><li>Profil: „Archiwum diet” i „Historia fizjoterapii” przeniesione pod karty – przycisk dodawania w nagłówku nie łamie się już na wąskich ekranach.</li></ul></section><p><a href="zmiany/">Pełna historia zmian</a></p><!--/NOWE-->
+<!--NOWE--><section class="ver"><h2>0.19.0 <span>24.11.2026</span></h2><ul><li>Wykresy: wykres od razu pod wyborem zwierzaka. Dotknięcie nazwy parametru otwiera wybór, strzałki ‹ › przechodzą do sąsiednich parametrów z tej samej grupy.</li><li>Pod wykresem skróty: parametry poza normą w ostatnich wynikach i przypięte gwiazdką.</li><li>„Wszystkie parametry” – lista z wyszukiwarką (także po innych nazwach, np. „hematokryt”), pogrupowana jak badania, z ostatnią wartością.</li><li>Ten sam parametr z różnych laboratoriów (np. HCT i Hematokryt, PLT i Płytki krwi) oraz nazwy rozbite przy odczycie PDF trafiają na jeden wykres.</li></ul></section><p><a href="zmiany/">Pełna historia zmian</a></p><!--/NOWE-->
 <p><a href="polityka-prywatnosci/">Polityka prywatności</a></p>
 <p>Aplikacja nie zastępuje porady lekarza weterynarii. Jej główny cel to pomoc właścicielom w pilnowaniu terminów badań i zebranie wszystkich wyników z różnych lecznic w jednym miejscu, na telefonie właściciela. Także po to, by pamiętać o wszystkim przy kolejnej wizycie u weterynarza. Powstała z myślą o moim stadzie, rozwijam ją po pracy. Jeśli pomogła Twoim kotom, postaw karmę moim (bo karma wraca) ;)</p>
 <p class="get"><a class="dl support" href="https://buycoffee.to/kitkuapp">Postaw kotkom karmę</a><span>wsparcie rozwoju aplikacji przez buycoffee.to</span></p>

diff --git a/tools/podrecznik/screens.py b/tools/podrecznik/screens.py
@@ -260,16 +260,25 @@ circles = "".join(f'<circle cx="{xy(i,v)[0]:.0f}" cy="{xy(i,v)[1]:.0f}" r="4" fi
 S.append(("wykresy", "Wykresy", "Zmiany wyników w czasie – z zaznaczoną normą.", page(f'''
 <div class="pad"><div class="h1">Wykresy</div>
  {petchips("Mruczek", tap=T(1))}
- <div style="display:flex;gap:6px;flex-wrap:wrap"{T(2)}><span class="chip">Waga</span><span class="chip on">Kreatynina</span><span class="chip">SDMA</span><span class="chip">Ciśnienie skurczowe</span></div>
- <div class="card" style="margin-top:10px"><div class="b">Kreatynina <span class="mut">mg/dl</span></div><div class="mut sm">Norma: 0,8–2,0</div>
-  <svg width="{W}" height="{H}"{T(3)}><rect x="0" y="{band_top:.0f}" width="{W}" height="{band_bot-band_top:.0f}" fill="#E1F0EC"/><polyline points="{poly}" fill="none" stroke="#0F6B5C" stroke-width="2"/>{circles}</svg></div>
- <h2>Pomiary <span class="tb"{T(4)}>Dodaj pomiar</span></h2>
+ <div class="card" style="margin-top:10px">
+  <div class="row"><span class="chip" style="border-radius:50%;padding:4px 11px"{T(3)}>‹</span><div class="grow" style="text-align:center"{T(2)}><div class="b" style="font-size:17px">Kreatynina <span class="hi">↑</span> <span class="tb">▾</span></div><div class="mut sm">Biochemia krwi · 1 z 12</div></div><span class="chip" style="border-radius:50%;padding:4px 11px">›</span></div>
+  <svg width="{W}" height="{H}" style="margin-top:6px"{T(4)}><rect x="0" y="{band_top:.0f}" width="{W}" height="{band_bot-band_top:.0f}" fill="#E1F0EC"/><polyline points="{poly}" fill="none" stroke="#0F6B5C" stroke-width="2"/>{circles}</svg>
+  <div class="mut sm">Norma: 0,8–2,0 mg/dl</div></div>
+ <div class="mut sm b" style="margin:12px 0 6px">POZA NORMĄ W OSTATNICH WYNIKACH</div>
+ <div style="display:flex;gap:6px;flex-wrap:wrap"{T(5)}><span class="chip on">Kreatynina ↑</span><span class="chip">SDMA ↑</span><span class="chip">Ciśnienie skurczowe ↑</span></div>
+ <div class="mut sm b" style="margin:10px 0 6px">PRZYPIĘTE ★</div>
+ <div style="display:flex;gap:6px;flex-wrap:wrap"><span class="chip">Waga</span><span class="chip">HCT</span></div>
+ <div class="btn o" style="display:block;text-align:center;margin-top:10px"{T(6)}>Wszystkie parametry (38) – szukaj</div>
+ <h2>Pomiary <span class="tb"{T(7)}>Dodaj pomiar</span></h2>
  <div class="card"><table><tr><td>02.11.2026</td><td class="hi" style="text-align:right">2,3</td></tr><tr><td>14.06.2026</td><td class="hi" style="text-align:right">2,1</td></tr><tr><td>18.11.2025</td><td style="text-align:right">1,8</td></tr></table></div>
 </div>''', "Wykresy"), [
  (1, "Wybór zwierzaka."),
- (2, "Wybór parametru – waga, ciśnienie i każdy wynik liczbowy z historii."),
- (3, "Zielony pas to norma, czerwone punkty – wyniki poza normą."),
- (4, "<b>Dodaj pomiar</b> – np. waga z domowej wagi albo ciśnienie zmierzone w domu."),
+ (2, "Nazwa parametru – dotknij, aby wybrać inny. Strzałka ↑/↓ oznacza ostatni wynik poza normą."),
+ (3, "Strzałki ‹ › przechodzą do poprzedniego / następnego parametru z tej samej grupy (np. kolejne wyniki biochemii)."),
+ (4, "Zielony pas to norma, czerwone punkty – wyniki poza normą."),
+ (5, "Skróty: parametry poza normą w ostatnich wynikach oraz przypięte gwiazdką."),
+ (6, "<b>Wszystkie parametry</b> – lista z wyszukiwarką (działa też na inne nazwy, np. „hematokryt” → HCT), pogrupowana jak badania, z ostatnią wartością. Gwiazdka ☆ przypina parametr. Ten sam parametr z różnych laboratoriów jest na jednym wykresie."),
+ (7, "<b>Dodaj pomiar</b> – np. waga z domowej wagi albo ciśnienie zmierzone w domu."),
 ]))
 
 # 11. Przypomnienia

diff --git a/CHANGELOG.md b/CHANGELOG.md
@@ -1,5 +1,11 @@
 # Historia zmian KitkuApp
 
+## 0.19.0 — 24.11.2026
+- Wykresy: wykres od razu pod wyborem zwierzaka. Dotknięcie nazwy parametru otwiera wybór, strzałki ‹ › przechodzą do sąsiednich parametrów z tej samej grupy.
+- Pod wykresem skróty: parametry poza normą w ostatnich wynikach i przypięte gwiazdką.
+- „Wszystkie parametry” – lista z wyszukiwarką (także po innych nazwach, np. „hematokryt”), pogrupowana jak badania, z ostatnią wartością.
+- Ten sam parametr z różnych laboratoriów (np. HCT i Hematokryt, PLT i Płytki krwi) oraz nazwy rozbite przy odczycie PDF trafiają na jeden wykres.
+
 ## 0.18.2 — 24.11.2026
 - Profil: „Archiwum diet” i „Historia fizjoterapii” przeniesione pod karty – przycisk dodawania w nagłówku nie łamie się już na wąskich ekranach.
 
